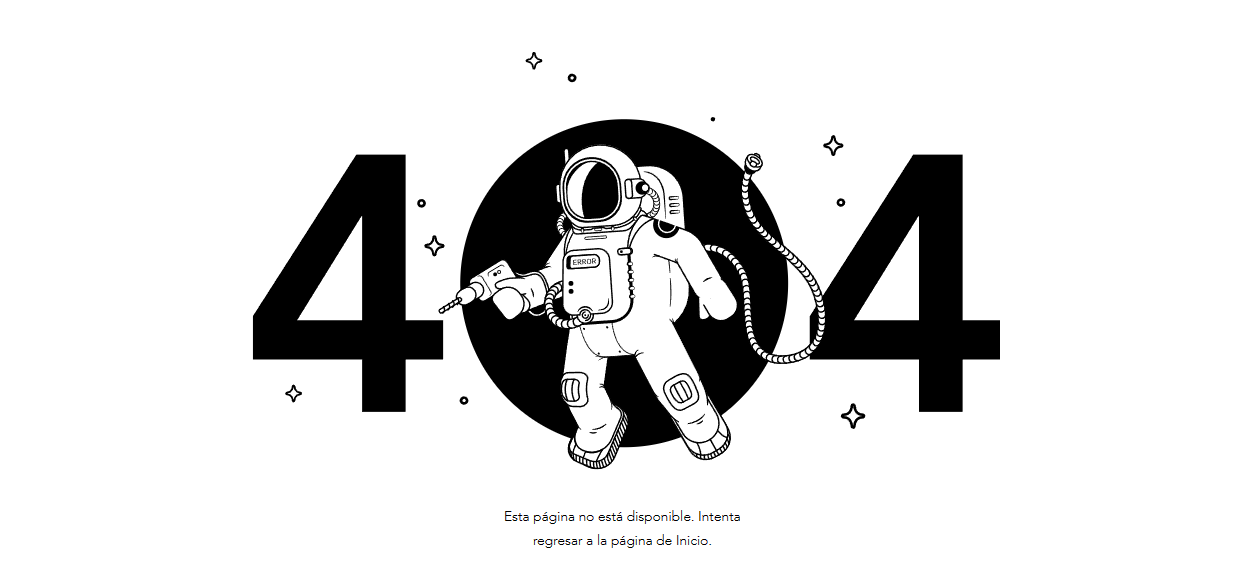
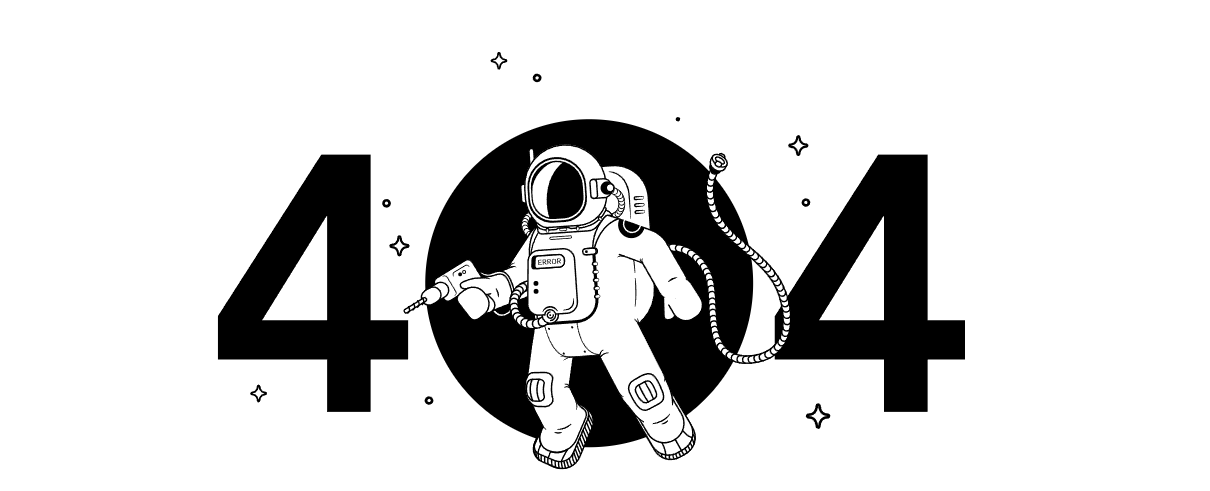
Modificacion y ajustes de Error 404

diff --git a/client/src/components/Error404/Error404.jsx b/client/src/components/Error404/Error404.jsx
@@ -9,8 +9,14 @@ const Error404 = () => {
 
   return (
     <div className={styles.errorContainer}>
+        <div className={styles.imgYp}>
       <img src={ImgError404} alt="Error 404" className={styles.errorImage}/>
-      <button onClick={handleGoHome} className={styles.errorButton}>Volver al inicio</button>
+      <div className={styles.parrafo}>
+      <h3>Esta página no está disponible. </h3>
+      <h3>Intente más tarde.</h3>
+      </div>
+        </div>
+      <button onClick={handleGoHome} className={styles.errorButton}>Volver</button>
     </div>
   );
 };

diff --git a/client/src/components/Error404/Error404.module.css b/client/src/components/Error404/Error404.module.css
@@ -8,11 +8,22 @@
 }
 
 .errorImage {
-    width: 100%;
+    width: 80%;
+    margin-bottom: 5%;
     height: auto;
-    }
+}
+
+.h3 {
+    font-size: 1px;
+}
+
 
 .errorButton {
-    margin-top: 20px;
+    margin-top: 50px;
     align-self: center;
+    font-size: 1.4em;
+    padding: 10px;
+    padding-left: 1.5em;
+    padding-right: 1.5em;
+    border-radius: 8px;
 }
